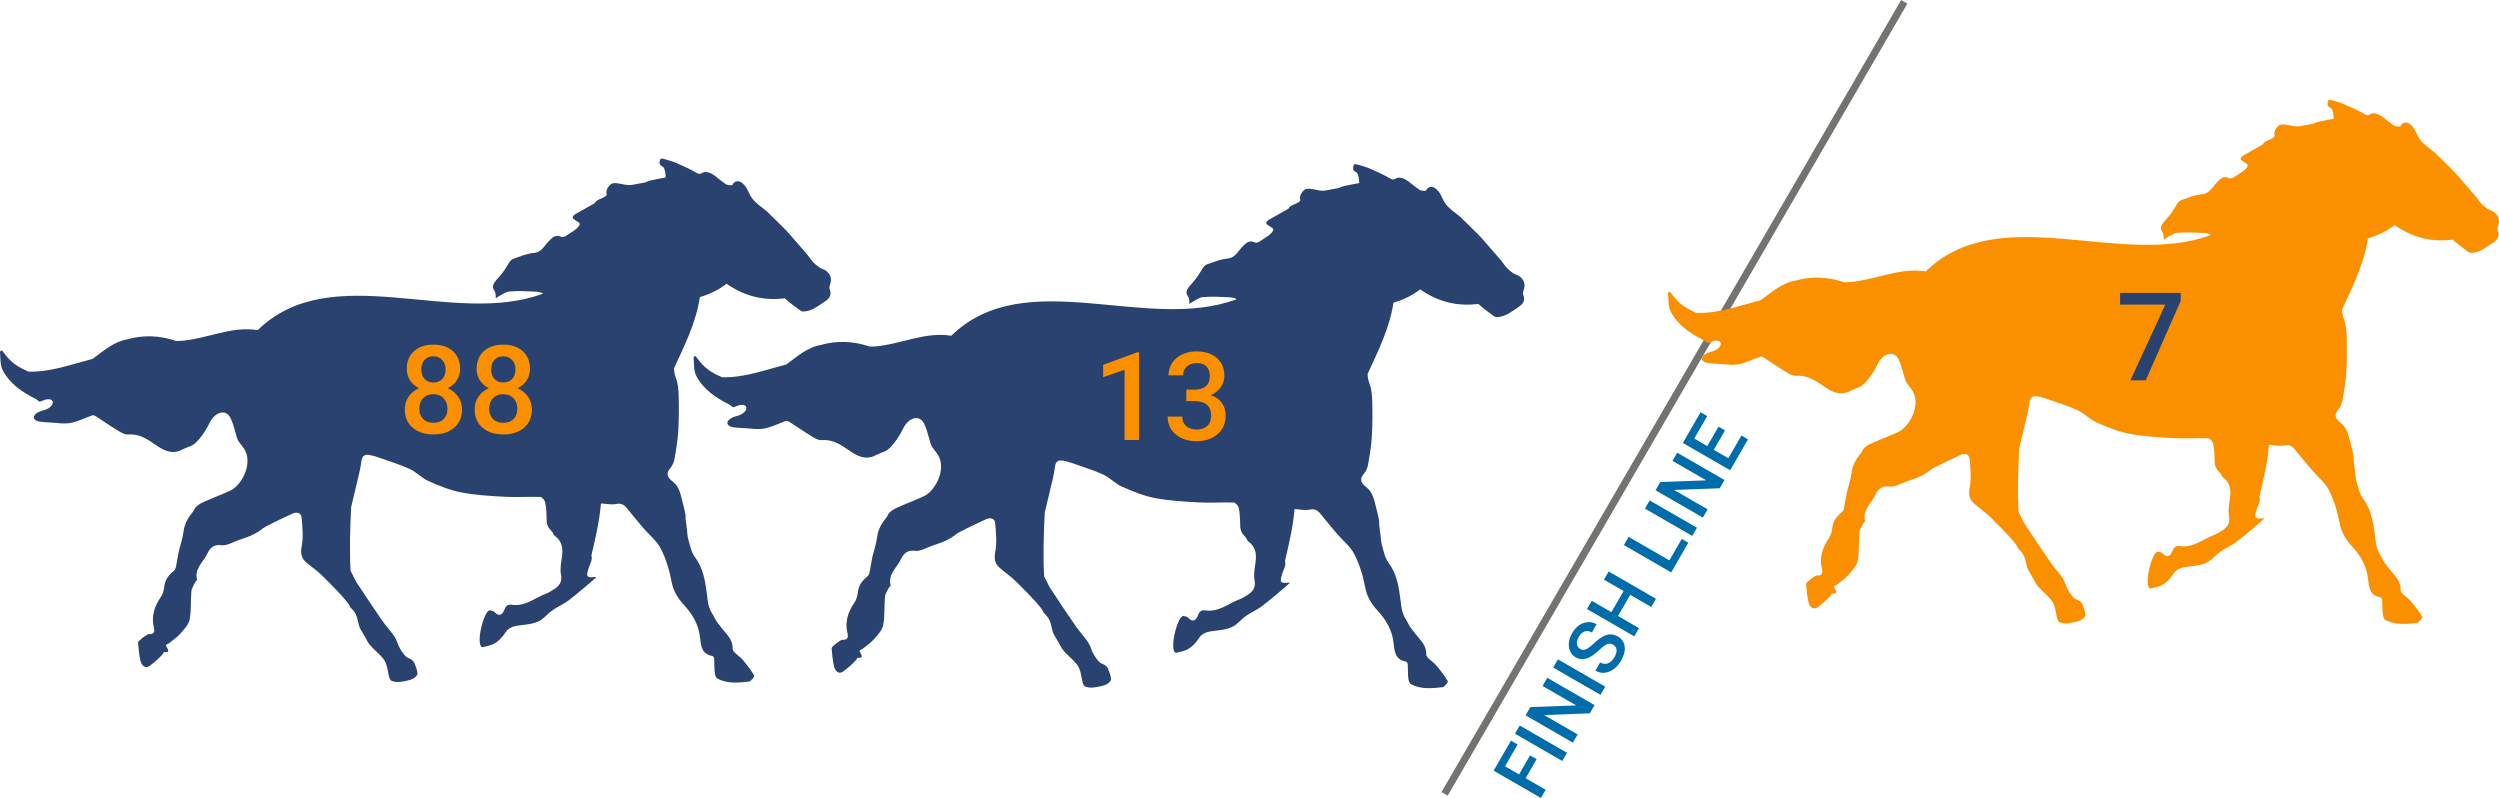
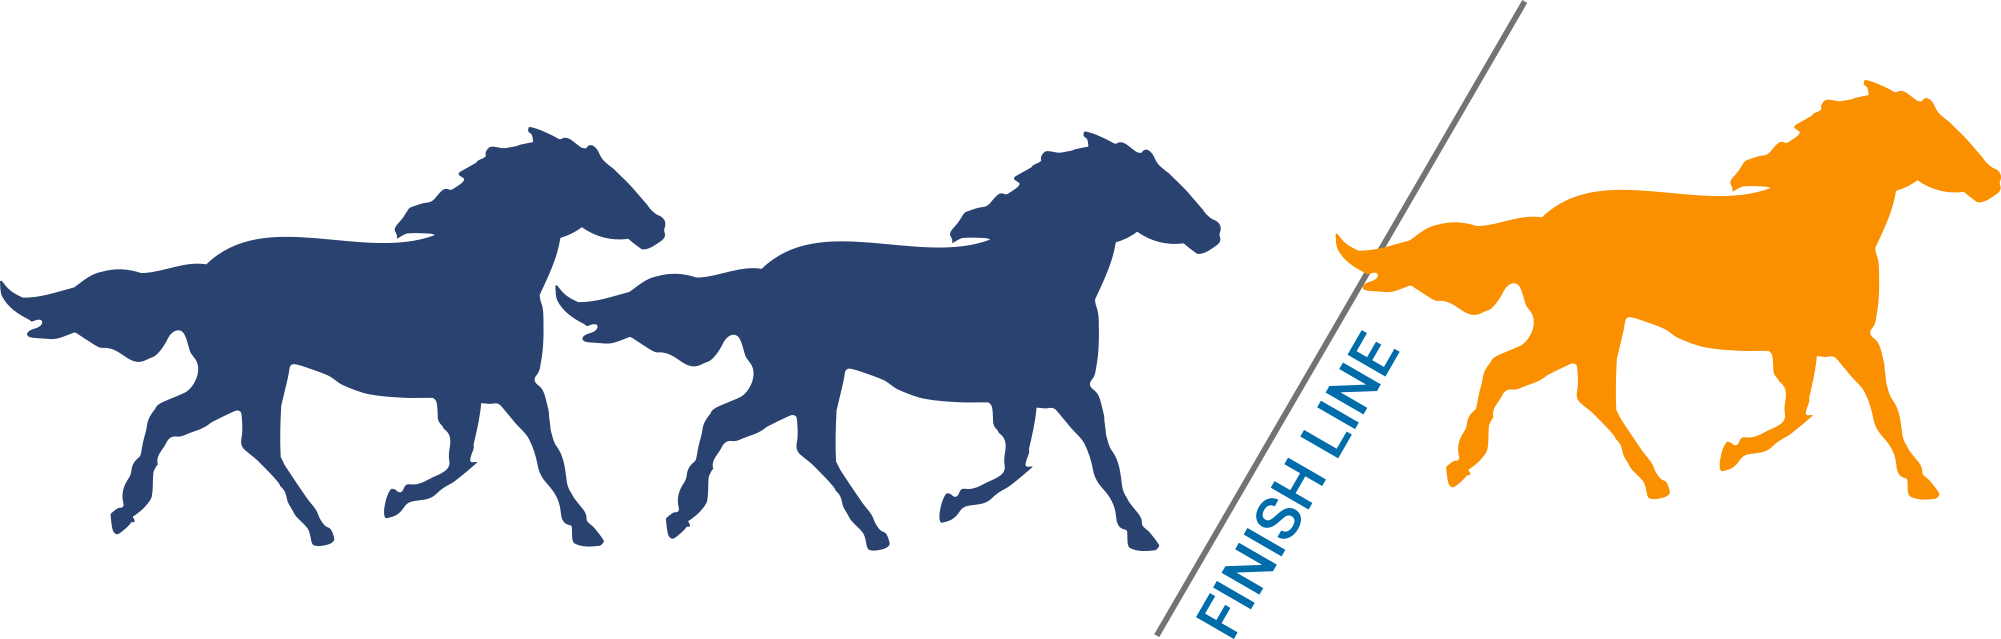
del numbers from horsesillustration

Changed region(s): [[0.1549, 0.4163, 0.2169, 0.5649], [0.4338, 0.446, 0.4958, 0.5649], [0.8366, 0.3568, 0.8986, 0.4757]]

diff --git a/info/task_description.html b/info/task_description.html
@@ -8,7 +8,7 @@
 </p>
 
 <p style="text-align: center;">
-    <img  title="The fastest horse" src="{{MEDIA}}fastest-horse.png" alt="example" style="max-height: 283px"/>
+    <img  title="The fastest horse" src="{{MEDIA}}fastest-horse.png" alt="example" style="max-height: 200px"/>
 </p>
 
 <!-- Explain input and output values -->

diff --git a/translations/ru/info/task_description.html b/translations/ru/info/task_description.html
@@ -8,7 +8,7 @@
 </p>
 
 <p style="text-align: center;">
-    <img  title="The fastest horse" src="{{MEDIA}}fastest-horse.png" alt="example" style="max-height: 283px"/>
+    <img  title="The fastest horse" src="{{MEDIA}}fastest-horse.png" alt="example" style="max-height: 200px"/>
 </p>
 
 <!-- Explain input and output values -->
